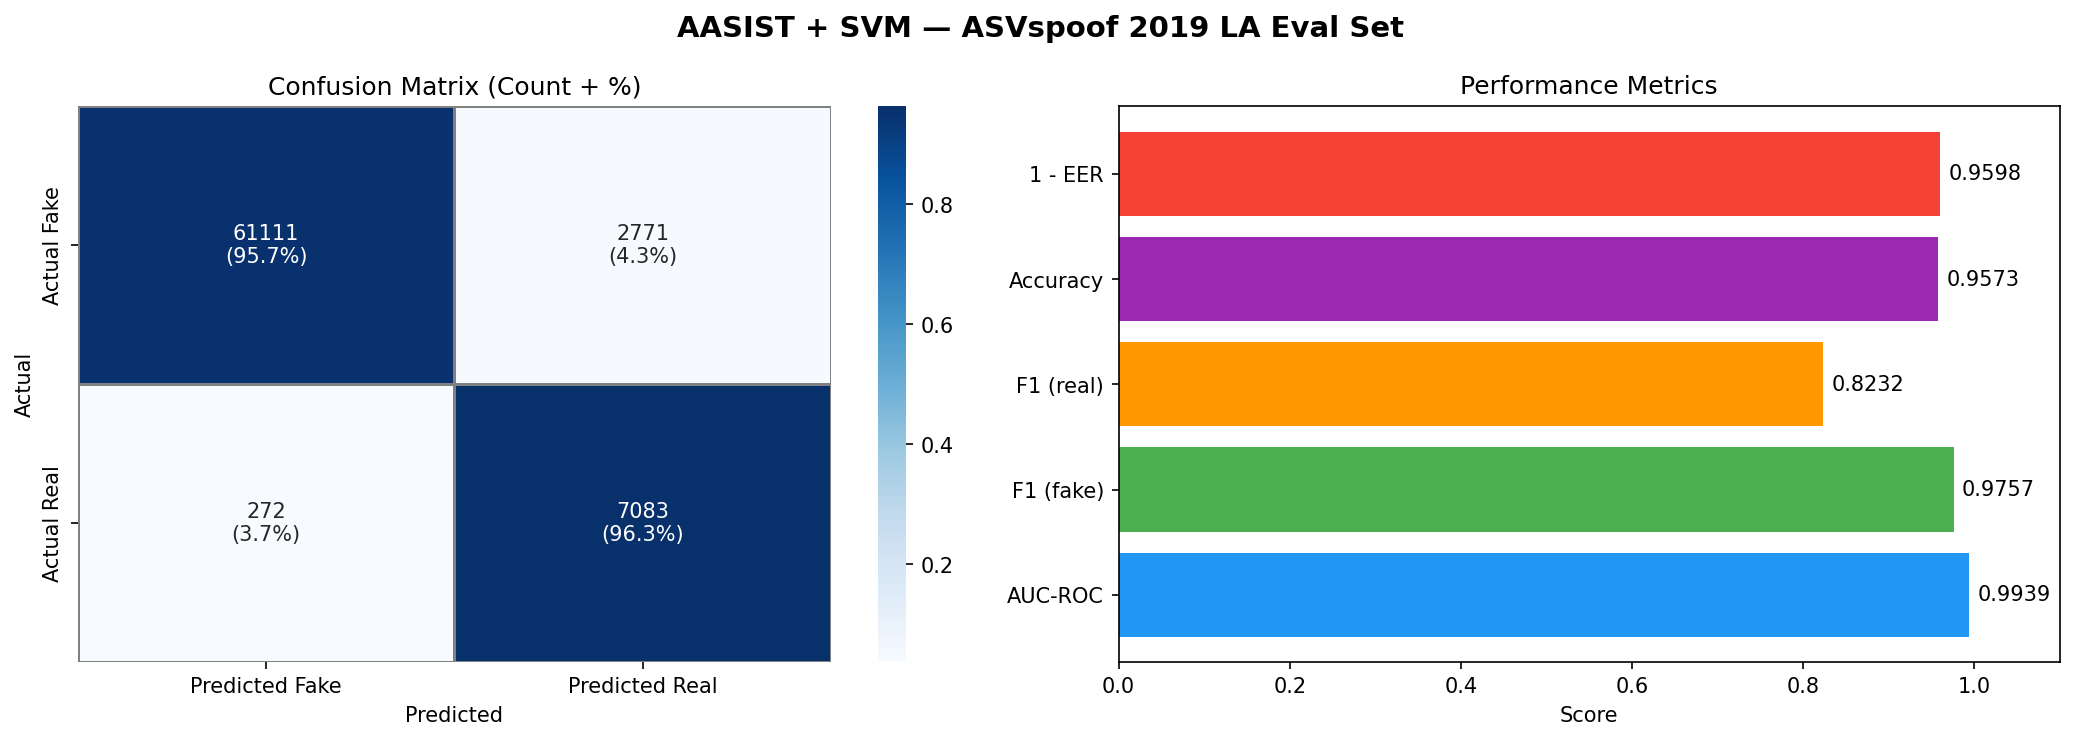
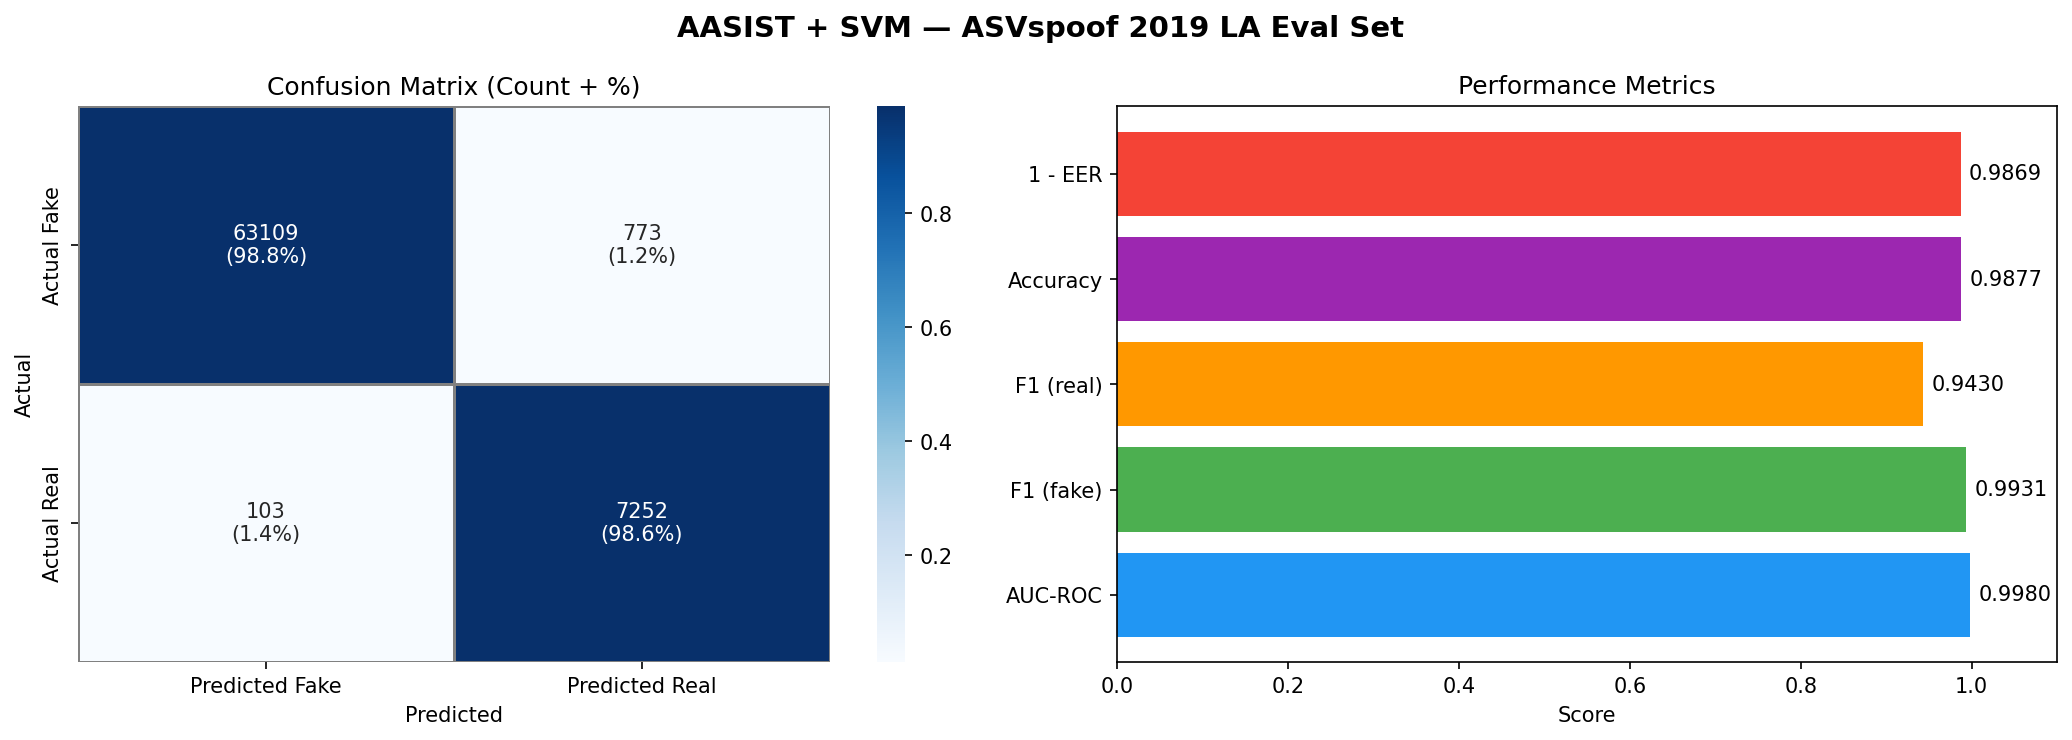
analyze with svm model

diff --git a/analyze_audio_svm.py b/analyze_audio_svm.py
@@ -1,0 +1,120 @@
+"""
+analyze_audio_svm.py
+Audio deepfake detection using AASIST + SVM pipeline.
+Run: python analyze_audio_svm.py path/to/audio.wav
+"""
+
+import sys
+import os
+import json
+import torch
+import numpy as np
+import librosa
+import joblib
+
+# ── AASIST setup ──────────────────────────────────────────────────
+AASIST_DIR   = os.path.join(os.path.dirname(__file__), "AASIST")
+WEIGHTS_PATH = os.path.join(os.path.dirname(__file__), "pretrained", "AASIST.pth")
+CONFIG_PATH  = os.path.join(AASIST_DIR, "config", "AASIST.conf")
+sys.path.insert(0, AASIST_DIR)
+from models.AASIST import Model
+
+# ── SVM setup ─────────────────────────────────────────────────────
+SVM_PATH    = os.path.join(os.path.dirname(__file__), "svm", "best_svm_v3.pkl")
+SCALER_PATH = os.path.join(os.path.dirname(__file__), "svm", "scaler_v3.pkl")
+
+DEVICE      = torch.device("cuda" if torch.cuda.is_available() else "cpu")
+SAMPLE_RATE = 16000
+MAX_SAMPLES = 64600
+
+SUPPORTED_FORMATS = {".wav", ".ogg", ".mp3", ".flac", ".m4a"}
+
+# ── Load models ───────────────────────────────────────────────────
+def load_models():
+    # AASIST
+    with open(CONFIG_PATH, "r") as f:
+        config = json.load(f)
+    aasist = Model(config["model_config"]).to(DEVICE)
+    aasist.load_state_dict(torch.load(WEIGHTS_PATH, map_location=DEVICE))
+    aasist.eval()
+
+    # SVM + scaler
+    svm    = joblib.load(SVM_PATH)
+    scaler = joblib.load(SCALER_PATH)
+
+    return aasist, svm, scaler
+
+# ── Preprocess ────────────────────────────────────────────────────
+def preprocess(file_path: str) -> torch.Tensor:
+    audio, _ = librosa.load(file_path, sr=SAMPLE_RATE, mono=True)
+    if len(audio) < MAX_SAMPLES:
+        audio = np.pad(audio, (0, MAX_SAMPLES - len(audio)))
+    else:
+        audio = audio[:MAX_SAMPLES]
+    return torch.FloatTensor(audio).unsqueeze(0).to(DEVICE)
+
+# ── Main inference ────────────────────────────────────────────────
+def analyze_audio(file_path: str, aasist=None, svm=None, scaler=None) -> dict:
+    ext = os.path.splitext(file_path)[1].lower()
+    if ext not in SUPPORTED_FORMATS:
+        raise ValueError(f"Unsupported format '{ext}'")
+
+    if aasist is None or svm is None or scaler is None:
+        aasist, svm, scaler = load_models()
+
+    # Step 1 — extract embedding with AASIST
+    tensor = preprocess(file_path)
+    with torch.no_grad():
+        embedding, _ = aasist(tensor)
+    embedding = embedding.squeeze().cpu().numpy().reshape(1, -1)
+
+    # Step 2 — normalize
+    embedding = scaler.transform(embedding)
+
+    # Step 3 — classify with SVM
+    prob      = svm.predict_proba(embedding)[0]  # [fake_prob, real_prob]
+    prob_fake = prob[0]
+    prob_real = prob[1]
+
+    llr             = float(np.log(prob_real / (prob_fake + 1e-9)))
+    decision_margin = round(abs(prob_real - 0.5), 4)
+    suspicion_score = round(prob_fake * 100, 2)
+    entropy         = -sum(p * np.log(p + 1e-9) for p in [prob_real, prob_fake])
+
+    return {
+        "result"               : "real" if prob_real > prob_fake else "fake",
+        "probability_real"     : round(prob_real, 4),
+        "probability_fake"     : round(prob_fake, 4),
+        "log_likelihood_ratio" : round(llr, 4),
+        "decision_margin"      : decision_margin,
+        "suspicion_score"      : suspicion_score,
+        "entropy"              : round(entropy, 4),
+    }
+
+# ── CLI ───────────────────────────────────────────────────────────
+if __name__ == "__main__":
+    if len(sys.argv) < 2:
+        print("Usage: python analyze_audio_svm.py path/to/audio.wav")
+        sys.exit(1)
+
+    file_path = sys.argv[1]
+    if not os.path.exists(file_path):
+        print(f"File not found: {file_path}")
+        sys.exit(1)
+
+    print("Loading models...")
+    _aasist, _svm, _scaler = load_models()
+
+    print(f"Analyzing: {file_path}")
+    result = analyze_audio(file_path, _aasist, _svm, _scaler)
+
+    print("\n─── Result ───────────────────────────────")
+    print(f"  Real probability : {result['probability_real']:.2%}")
+    print(f"  Fake probability : {result['probability_fake']:.2%}")
+    print(f"  Verdict          : {result['result'].upper()}")
+    print(f"\n─── Metrics ──────────────────────────────")
+    print(f"  Log-likelihood   : {result['log_likelihood_ratio']:+.4f}  (+ real, - fake)")
+    print(f"  Decision margin  : {result['decision_margin']:.4f}  (0=borderline, 0.5=certain)")
+    print(f"  Suspicion score  : {result['suspicion_score']:.1f}/100")
+    print(f"  Entropy          : {result['entropy']:.4f}")
+    print("──────────────────────────────────────────")

diff --git a/svm/evaluate.py b/svm/evaluate.py
@@ -29,8 +29,8 @@ print(f"  Eval: {X_eval.shape} — Real: {y_eval.sum()} Fake: {(y_eval==0).sum()
 
 # ── Load model ────────────────────────────────────────────────────
 print("\nLoading SVM...")
-model  = joblib.load(os.path.join(SVM_DIR, "best_svm_v2.pkl"))
-scaler = joblib.load(os.path.join(SVM_DIR, "scaler_v2.pkl"))
+model  = joblib.load(os.path.join(SVM_DIR, "best_svm_v3.pkl"))
+scaler = joblib.load(os.path.join(SVM_DIR, "scaler_v3.pkl"))
 
 # ── Normalize ─────────────────────────────────────────────────────
 X_eval = scaler.transform(X_eval)
